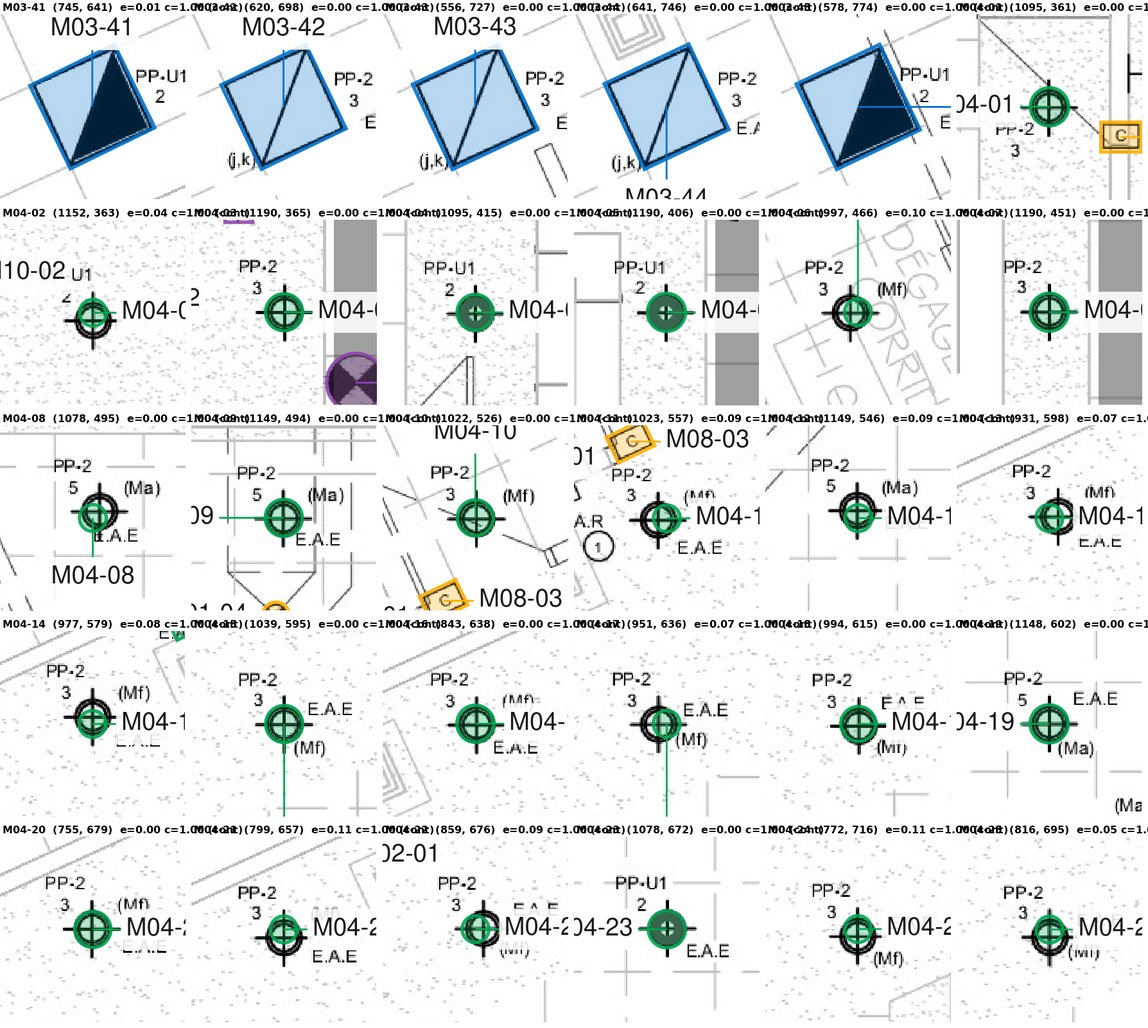
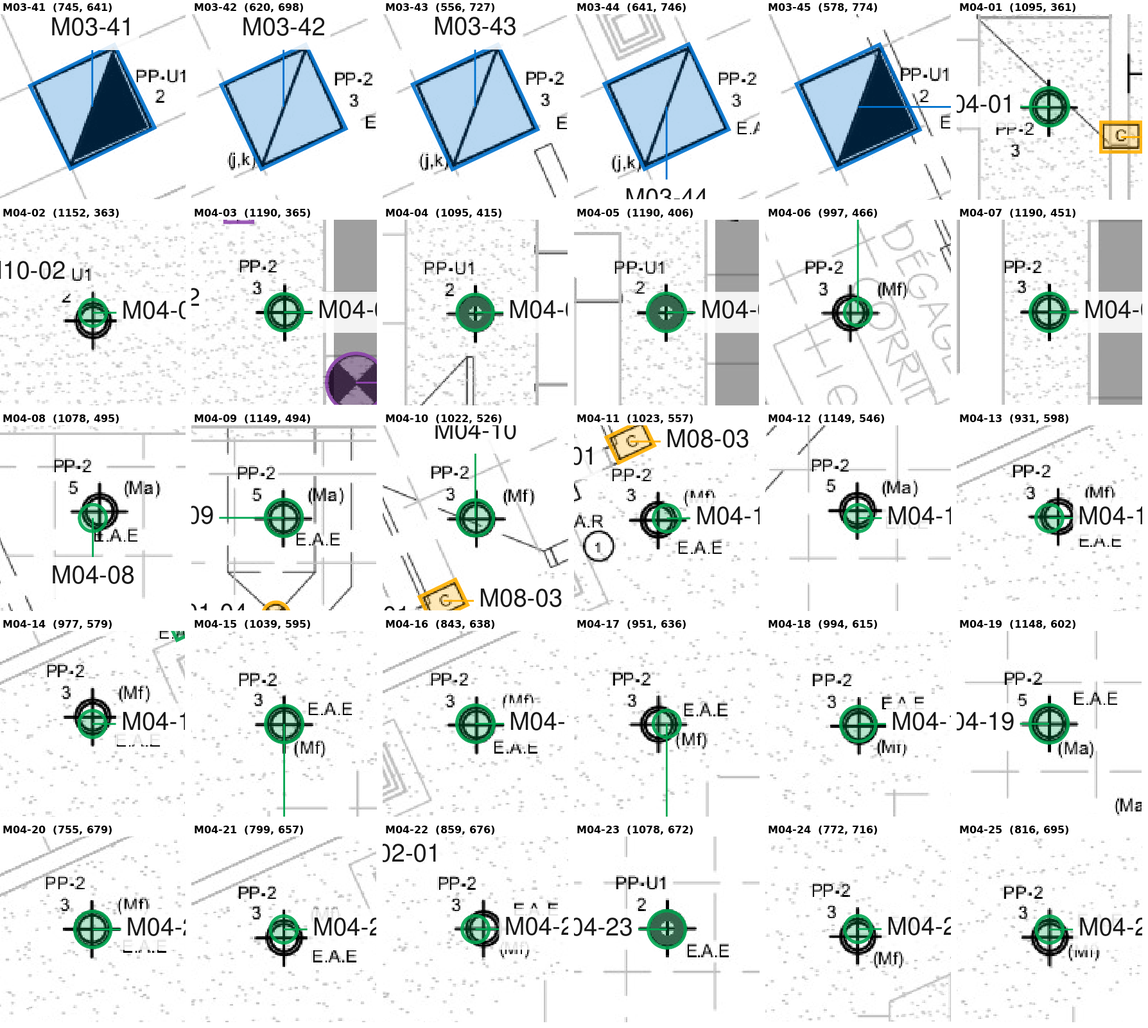
releve : revues Codex/Copilot PR #25 — calque par OCG, pages réelles, feuilles raster seules, échecs fatals
Codex (9) et Copilot (7), tous traités :
- calque_png.py : le calque est isolé par les flux de contenu balisés /OC vers les OCG « RELEVE … »
  (familles + légende), plus en effaçant les images — un plan VECTORIEL restait entier dans le
  « calque transparent ». Testé sur le gabarit vectoriel 2 feuilles (tests/test_calque_png.py).
- Pages : planche_controle.py --rapport et run.py lisent `plan_page` du rapport de rendu ; les
  `page` d'estimate.json (avant bordereaux) étaient fausses dès la 2e feuille.
- run.py : ancrage_raster.py --feuilles <feuilles raster> (dossier mixte : les feuilles vectorielles
  ne sont plus recalées sur leurs aperçus) ; planches + PNG dans `planches_et_png()`, échec FATAL ;
  copie Drive des dossiers png/ et controle/ ; « comparaison non exécutée » dans STATUT.md.
- ancrage_raster.py : schéma CSV conservé sans occurrence (fieldnames), --feuilles.
- comparer_legende.py : rapport explicite « non_executee » au lieu d'un fichier périmé ; échelle du
  gabarit = px/pt du PLAN / px/pt de la LÉGENDE (formats de feuille différents).
- planche_controle.py : mesure cherchée par (feuille, x, y), plus par coordonnées seules.
- dossiers/TEST-E201 : legende.csv A03 absent/0, A04 compte/5 (conforme=True) ; SHA256SUMS.txt
  limité aux fichiers versionnés (Dossier-complet.pdf est ignoré par .gitignore) ; R-015.
  Les rasters de planexpert/ restent hors dépôt par convention (.gitignore, comme tous les S-*).

pytest : 283 passed.
[…]

diff --git a/releve/run.py b/releve/run.py
@@ -232,6 +232,23 @@ def statut(name, inbox, outdir, workdir, steps, res, ok, err=None, a_verifier=No
             L += [f"## {extra}", "", open(p, encoding="utf-8").read(), ""]
     open(os.path.join(outdir, "STATUT.md"), "w", encoding="utf-8").write("\n".join(L))
 
+def planches_et_png(outdir, workdir, annote, estimate, rapport_path, steps, log_path):
+    """Planches de contrôle (vignettes ×8 avec mesures) + livrables PNG (annoté + calque) — un échec est FATAL :
+    sans planche, pas de contrôle visuel, donc jamais « TERMINÉ » (revues Codex/Copilot PR #25)."""
+    # Pages RÉELLES de chaque feuille dans « Plans annotés » (`plan_page` du rapport de rendu : les bordereaux insérés
+    # après chaque plan décalent tout dès la 2e feuille — les `page` d'estimate.json sont celles d'avant rendu).
+    pages = [(sh["sheet"], int(sh["plan_page"])) for sh in json.load(open(rapport_path, encoding="utf-8")).get("sheets", [])]
+    t = time.time(); code, out = run(["uv", "run", "releve/planche_controle.py", annote, estimate, os.path.join(outdir, "controle"),
+                                      "--mesures", os.path.join(workdir, "occurrences-visuel.csv"), "--rapport", rapport_path], log_path=log_path)
+    steps.append(("planche_controle", time.time() - t, (out.strip().splitlines() or ["?"])[-1][:160]))
+    if code: raise RuntimeError("planche_controle.py a échoué (planches de contrôle visuel obligatoires avant « fait »)")
+    # Livrables PNG (règle de Francis : plan annoté + calque transparent, pas de PDF à relire) : une paire par feuille plan
+    t = time.time()
+    for nom_f, pg in pages:
+        code, _ = run(["uv", "run", "releve/calque_png.py", annote, os.path.join(outdir, "png"), "--page", str(pg), "--nom", str(nom_f)], log_path=log_path)
+        if code: raise RuntimeError(f"calque_png.py a échoué sur la feuille {nom_f} (page {pg})")
+    steps.append(("calque_png", time.time() - t, f"{len(pages)} feuille(s) → png/"))
+
 def feuilles_raster(workdir):
     """Feuilles sans couche texte (scan, PNG) selon `feuilles.csv` de prepare.py : `nb_mots` = 0 ou classement `scan`."""
     p = os.path.join(workdir, "feuilles.csv")
@@ -258,7 +275,11 @@ def controles_raster(workdir, outdir):
     p = os.path.join(workdir, "comparaison-legende.json")
     if os.path.exists(p):
         c = json.load(open(p, encoding="utf-8"))
-        L.append(f"- comparaison à la légende : {c.get('occurrences', 0)} symboles comparés, {len(c.get('suspectes', []))} famille(s) suspecte(s)")
+        if c.get("non_executee"):
+            L.append(f"- comparaison à la légende : non exécutée — {c.get('raison', '')}")
+            c = {}
+        else:
+            L.append(f"- comparaison à la légende : {c.get('occurrences', 0)} symboles comparés, {len(c.get('suspectes', []))} famille(s) suspecte(s)")
         for s in c.get("suspectes", []):
             L.append(f"  - ⚠ {s['label']} ({s['x_pt']},{s['y_pt']}) ressemble plus à la ligne {s['meilleur']} « {s['description']} » "
                      f"({s['score_meilleur']}) qu'à la sienne {s['attendu']} ({s['score_attendu']}) — trancher au zoom, corriger TOUTES les occurrences semblables")
@@ -310,8 +331,11 @@ def process(arg, reprendre=False):
             # 2) comparer_legende.py corrèle chaque symbole aux glyphes de sa section de légende → une famille attribuée
             #    au mauvais glyphe (A03 avertisseur vs A04 détecteur de fumée) est signalée AVANT le rendu.
             # Jamais bloquants : les symboles non retrouvés et les familles suspectes vont dans STATUT.md, à vérifier au zoom.
-            if feuilles_raster(workdir):
-                t = time.time(); code, out = run(["uv", "run", "releve/ancrage_raster.py", workdir], log_path=log_path)
+            raster = feuilles_raster(workdir)
+            if raster:
+                # seulement les feuilles raster : dans un dossier mixte, les occurrences des feuilles vectorielles restent
+                # à l'ancrage vectoriel de render_vectoriel.py (revues Codex/Copilot PR #25)
+                t = time.time(); code, out = run(["uv", "run", "releve/ancrage_raster.py", workdir, "--feuilles", *raster], log_path=log_path)
                 steps.append(("ancrage_raster", time.time() - t, (out.strip().splitlines() or ["?"])[-1][:160]))
                 t = time.time(); code, out = run(["uv", "run", "releve/comparer_legende.py", workdir], log_path=log_path)
                 steps.append(("comparer_legende", time.time() - t, (out.strip().splitlines() or ["?"])[0][:160]))
@@ -333,20 +357,10 @@ def process(arg, reprendre=False):
         # Planche de contrôle : une vignette ×8 par pastille (CLAUDE.md §Autonomie point 1 — c'est à cette échelle
         # qu'un décalage de 5 pt ou une mauvaise famille se voit ; jamais sur la vue d'ensemble). À relire avant « fait ».
         annote = os.path.join(outdir, f"{name}-Plans-annotes.pdf"); estimate = os.path.join(outdir, "vecteur", "estimate.json")
-        if os.path.exists(annote) and os.path.exists(estimate):
-            t = time.time(); code, out = run(["uv", "run", "releve/planche_controle.py", annote, estimate, os.path.join(outdir, "controle"),
-                                              "--mesures", os.path.join(workdir, "occurrences-visuel.csv")], log_path=log_path)
-            steps.append(("planche_controle", time.time() - t, (out.strip().splitlines() or ["?"])[-1][:160]))
-            # Livrables PNG (règle de Francis : plan annoté + calque transparent, pas de PDF à relire) : une paire par feuille plan
-            try:
-                pages = [(sh.get("sheet") or sh.get("name"), sh.get("page") or 1) for sh in json.load(open(estimate, encoding="utf-8")).get("sheets", [])]
-            except Exception:  # noqa
-                pages = []
-            t = time.time(); n_png = 0
-            for nom_f, pg in pages:
-                code, _ = run(["uv", "run", "releve/calque_png.py", annote, os.path.join(outdir, "png"), "--page", str(pg), "--nom", str(nom_f)], log_path=log_path)
-                n_png += (code == 0)
-            steps.append(("calque_png", time.time() - t, f"{n_png} feuille(s) → png/"))
+        if os.path.exists(annote) and os.path.exists(estimate) and os.path.exists(rapport_path):
+            planches_et_png(outdir, workdir, annote, estimate, rapport_path, steps, log_path)
+        else:
+            steps.append(("planche_controle", 0, "non exécutée : Plans-annotes.pdf, vecteur/estimate.json ou le rapport de rendu manque"))
         ok = True
         # Boucle d'acceptation (critère d'acceptation, étapes 1 à 8) : lancée
         # seulement si le dossier de la soumission est déjà assemblé dans le
@@ -400,6 +414,9 @@ def process(arg, reprendre=False):
                 p = os.path.join(outdir, f)
                 if os.path.isfile(p): shutil.copy2(p, dst)
             if os.path.isdir(pe_dir): shutil.copytree(pe_dir, os.path.join(dst, os.path.basename(pe_dir)), dirs_exist_ok=True)
+            for sous in ("png", "controle"):                 # livrables PNG et planches de contrôle (revue Codex PR #25)
+                if os.path.isdir(os.path.join(outdir, sous)):
+                    shutil.copytree(os.path.join(outdir, sous), os.path.join(dst, sous), dirs_exist_ok=True)
             log(f"copié sur Drive : {dst}")
         except Exception as e:  # noqa
             log(f"copie Drive impossible : {e}")

diff --git a/releve/calque_png.py b/releve/calque_png.py
@@ -4,15 +4,42 @@
 # ///
 """Livrables PNG d'une feuille annotée (règle de Francis, 2026-10-15 : « on reste en PNG, laisse tomber le PDF ») :
 - `<feuille>_annote.png`   : la page « Plans annotés » rastérisée (plan + pastilles + étiquettes) ;
-- `<feuille>_calque.png`   : les pastilles SEULES sur fond transparent (RGBA) — l'image du plan est retirée de la
-  page avant le rendu, ce qui laisse exactement le calque vectoriel (overlay) à superposer sur le plan d'origine.
+- `<feuille>_calque.png`   : les pastilles SEULES sur fond transparent (RGBA) — le calque (overlay) à superposer
+  sur le plan d'origine.
 
-Usage : uv run releve/calque_png.py PLANS_ANNOTES.pdf SORTIE_DIR [--page 1] [--largeur 4967]
-(`--page` = numéro de page 1-based de la feuille ; la largeur par défaut est celle d'un A1 à 150 dpi.)
+Le calque est isolé par les CALQUES OCG du relevé, pas en effaçant des images : `render_vectoriel.py` dessine chaque
+famille dans un flux de contenu propre, balisé `/OC /MCn BDC … EMC` vers une OCG nommée « RELEVE … » (une par famille
++ `style.LEGEND_LAYER`). Ne sont gardés que les flux de contenu de la page qui référencent une de ces OCG ; le fond —
+image raster d'un scan OU traits/textes d'un plan vectoriel OU calques CAO d'origine — est retiré. (Revue Codex/Copilot
+PR #25 : supprimer les images laissait tout le plan vectoriel dans le calque.)
+
+Usage : uv run releve/calque_png.py PLANS_ANNOTES.pdf SORTIE_DIR [--page 1] [--largeur 4967] [--nom E201]
+(`--page` = numéro de page 1-based de la feuille DANS « Plans annotés » (`plan_page` du rapport de rendu, pas la page
+de `vecteur/plans.pdf`) ; la largeur par défaut est celle d'un A1 à 150 dpi.)
 """
 from __future__ import annotations
-import argparse, os
+import argparse, os, re, sys
 import pymupdf
+
+PREFIXE_CALQUE = "RELEVE"          # nom des OCG écrites par src/estimer/render (familles + légende)
+
+
+def flux_releve(doc: pymupdf.Document, page: pymupdf.Page) -> tuple[list[int], list[int]]:
+    """(xrefs de contenu à garder, xrefs retirés) : un flux est gardé s'il balise au moins un bloc /OC vers une OCG
+    « RELEVE … » de la page."""
+    noms = {x: v.get("name", "") for x, v in doc.get_ocgs().items()}
+    props = {}
+    ok, props_raw = doc.xref_get_key(page.xref, "Resources/Properties")
+    if ok == "dict":
+        for m in re.finditer(r"/(\w+)\s+(\d+)\s+0\s+R", props_raw):
+            props[m.group(1)] = int(m.group(2))
+    releve = {n for n, x in props.items() if noms.get(x, "").startswith(PREFIXE_CALQUE)}
+    garder, retirer = [], []
+    for x in page.get_contents():
+        c = doc.xref_stream(x).decode("latin-1", errors="replace")
+        refs = set(re.findall(r"/OC\s*/(\w+)\s+BDC", c))
+        (garder if refs & releve else retirer).append(x)
+    return garder, retirer
 
 
 def main():
@@ -21,14 +48,21 @@ def main():
     ap.add_argument("--largeur", type=int, default=4967); ap.add_argument("--nom", default=None)
     a = ap.parse_args()
     os.makedirs(a.sortie, exist_ok=True)
-    doc = pymupdf.open(a.pdf); page = doc[a.page - 1]
+    doc = pymupdf.open(a.pdf)
+    if not 1 <= a.page <= doc.page_count:
+        sys.exit(f"page {a.page} hors du PDF ({doc.page_count} pages)")
+    page = doc[a.page - 1]
     z = a.largeur / page.rect.width
     nom = a.nom or f"p{a.page:02d}"
     page.get_pixmap(matrix=pymupdf.Matrix(z, z)).save(os.path.join(a.sortie, f"{nom}_annote.png"))
-    for img in page.get_images(full=True):          # retire le plan raster : il ne reste que le calque vectoriel
-        page.delete_image(img[0])
+    garder, retirer = flux_releve(doc, page)
+    if not garder:
+        sys.exit(f"aucun flux de contenu « {PREFIXE_CALQUE} » sur la page {a.page} : pas un PDF de render_vectoriel.py ?")
+    doc.xref_set_key(page.xref, "Contents", "[ " + " ".join(f"{x} 0 R" for x in garder) + " ]")
+    page = doc.reload_page(page)
     page.get_pixmap(matrix=pymupdf.Matrix(z, z), alpha=True).save(os.path.join(a.sortie, f"{nom}_calque.png"))
-    print(f"{nom}_annote.png + {nom}_calque.png ({a.largeur} px de large) → {a.sortie}")
+    print(f"{nom}_annote.png + {nom}_calque.png ({a.largeur} px de large ; calque = {len(garder)} flux RELEVE gardés, "
+          f"{len(retirer)} flux de fond retirés) → {a.sortie}")
 
 
 if __name__ == "__main__":

diff --git a/releve/planche_controle.py b/releve/planche_controle.py
@@ -12,6 +12,7 @@ et, avec --avant ANCIEN.pdf, des paires avant/après pour montrer ce qui a chang
 
 Usage : uv run releve/planche_controle.py PLANS_ANNOTES.pdf ESTIMATE_JSON SORTIE [--avant ANCIEN.pdf] [--taille 36]
         [--mesures travail/occurrences-visuel.csv]   (écart contour→encre en pt et couverture, mesurés par ancrage_raster.py)
+        [--rapport <NOM>-rendu-rapport.json]          (page réelle de chaque feuille dans « Plans annotés » — obligatoire dès 2 feuilles)
 (ESTIMATE_JSON = vecteur/estimate.json écrit par render_vectoriel.py : repère + x, y de chaque pastille.)
 """
 from __future__ import annotations
@@ -47,15 +48,16 @@ def main():
     ap.add_argument("pdf"); ap.add_argument("estimate"); ap.add_argument("sortie")
     ap.add_argument("--avant", default=None); ap.add_argument("--taille", type=float, default=36.0); ap.add_argument("--zoom", type=float, default=8.0)
     ap.add_argument("--mesures", default=None, help="occurrences-visuel.csv d'ancrage_raster.py : écart/couverture dans la légende de chaque vignette")
+    ap.add_argument("--rapport", default=None, help="<NOM>-rendu-rapport.json de render_vectoriel.py : page RÉELLE de chaque feuille dans « Plans annotés » (plan_page)")
     a = ap.parse_args()
     mesures = []
     if a.mesures:
         import csv
         mesures = [r for r in csv.DictReader(open(a.mesures, encoding="utf-8")) if (r.get("ecart_pt") or "").strip()]
 
-    def mesure(x, y):
+    def mesure(feuille, x, y):
         for r in mesures:
-            if abs(float(r["x_pt"]) - x) < 0.6 and abs(float(r["y_pt"]) - y) < 0.6:
+            if r.get("feuille") == feuille and abs(float(r["x_pt"]) - x) < 0.6 and abs(float(r["y_pt"]) - y) < 0.6:
                 return f"  e={r['ecart_pt']} c={r['couverture']} ({r.get('mesure', '')[:4]})"
         return ""
     os.makedirs(a.sortie, exist_ok=True)
@@ -68,12 +70,22 @@ def main():
     par_feuille = {}
     for it in items:
         par_feuille.setdefault(it.get("sheet", ""), []).append(it)
+    # Page de chaque feuille DANS « Plans annotés » : `plan_page` du rapport de rendu. Les `page` d'estimate.json sont
+    # celles de vecteur/plans.pdf, AVANT insertion des bordereaux — fausses dès la 2e feuille (revues Codex/Copilot PR #25).
     sheets_pages = {}
-    for sh in json.load(open(a.estimate, encoding="utf-8")).get("sheets", []):
-        sheets_pages[sh.get("sheet") or sh.get("name")] = sh.get("page") or sh.get("plan_page") or 1
+    if a.rapport:
+        for sh in json.load(open(a.rapport, encoding="utf-8")).get("sheets", []):
+            sheets_pages[sh["sheet"]] = int(sh["plan_page"])
+    else:
+        for sh in json.load(open(a.estimate, encoding="utf-8")).get("sheets", []):
+            sheets_pages[sh.get("sheet") or sh.get("name")] = int(sh.get("plan_page") or sh.get("page") or 1)
+        if len(sheets_pages) > 1:
+            print("ATTENTION : plusieurs feuilles sans --rapport : les pages viennent d'estimate.json (avant bordereaux) et peuvent être fausses")
     n_planches = 0
     for feuille, lst in par_feuille.items():
-        pg = int(lst[0].get("page") or sheets_pages.get(feuille, 1) or 1)   # page de la feuille dans « Plans annotés »
+        pg = sheets_pages.get(feuille) or int(lst[0].get("page") or 1)      # page de la feuille dans « Plans annotés »
+        if not 1 <= pg <= doc.page_count:
+            raise SystemExit(f"feuille {feuille} : page {pg} hors du PDF ({doc.page_count} pages)")
         page = doc[pg - 1]
         page_av = avant[pg - 1] if avant else None
         lst.sort(key=lambda o: o["repere"])
@@ -95,7 +107,7 @@ def main():
                     d.rectangle([cx + tw + 8, cy + 22, cx + tw + 8 + tw - 1, cy + 22 + tw - 1], outline=(0, 150, 0), width=2)
                 else:
                     img.paste(v, (cx, cy + 22))
-                d.text((cx + 4, cy + 2), f"{it['repere']}  ({it['x']:.0f}, {it['y']:.0f}){mesure(it['x'], it['y'])}", fill="black", font=font)
+                d.text((cx + 4, cy + 2), f"{it['repere']}  ({it['x']:.0f}, {it['y']:.0f}){mesure(feuille, it['x'], it['y'])}", fill="black", font=font)
             out = os.path.join(a.sortie, f"{feuille}-planche-{k // par + 1:02d}.png"); img.save(out); n_planches += 1
     print(f"{len(items)} vignettes sur {n_planches} planche(s) → {a.sortie}")
 

diff --git a/releve/comparer_legende.py b/releve/comparer_legende.py
@@ -40,7 +40,11 @@ def main():
     work = os.path.abspath(sys.argv[1])
     leg = [r for r in csv.DictReader(open(os.path.join(work, "legende.csv"), encoding="utf-8"))
            if (r.get("x_pt") or "").strip() and (r.get("y_pt") or "").strip()]
+    sortie = os.path.join(work, "comparaison-legende.json")
     if not leg:
+        # rapport explicite (jamais un fichier périmé d'un passage précédent repris dans STATUT.md — revue Codex PR #25)
+        json.dump({"non_executee": True, "raison": "aucune ligne de legende.csv n'a de coordonnées (feuille_legende,x_pt,y_pt,taille_pt)",
+                   "occurrences": 0, "suspectes": [], "par_famille": {}, "sans_taille": 0}, open(sortie, "w", encoding="utf-8"), indent=1, ensure_ascii=False)
         print("comparaison légende : aucune ligne de legende.csv n'a de coordonnées (feuille_legende,x_pt,y_pt,taille_pt) — rien à comparer")
         return
     nom = {r["label"]: r for r in csv.DictReader(open(os.path.join(work, "nomenclature.csv"), encoding="utf-8"))}
@@ -53,7 +57,7 @@ def main():
             cache[f] = raster(work, f)
         img, s = cache[f]
         half = float(r.get("taille_pt") or 8) / 2 + 1.0
-        glyphes[r["no"]] = (r.get("section", ""), r["description"], crop(img, s, float(r["x_pt"]), float(r["y_pt"]), half), half)
+        glyphes[r["no"]] = (r.get("section", ""), r["description"], crop(img, s, float(r["x_pt"]), float(r["y_pt"]), half), half, s)
     rapport = {"occurrences": 0, "suspectes": [], "par_famille": {}, "sans_taille": 0}
     # Échelle par GÉOMÉTRIE, pas par corrélation (qui favorise toujours le gabarit le plus petit) : la taille du symbole
     # sur le plan vient de l'ancrage (`rayon_pt` → diamètre, ou boîte x0..y1) ; chaque glyphe de légende — l'attendu
@@ -88,10 +92,12 @@ def main():
         section = glyphes[no][0]
         fen = crop(img, s, float(o["x_pt"]), float(o["y_pt"]), t / 2 + 6)
         scores = {}
-        for n2, (sec2, _, g2, half2) in glyphes.items():
+        for n2, (sec2, _, g2, half2, s_leg) in glyphes.items():
             if sec2 != section:
                 continue
-            e = (t + 2.0) / (2 * half2)           # glyphe (côté 2*half2 pt, marge comprise) → taille mesurée + trait
+            # glyphe (côté 2*half2 pt, en px de la LÉGENDE) → (t + 2) pt en px du PLAN : les deux feuilles peuvent avoir
+            # des formats, donc des px/pt, différents (revue Copilot PR #25)
+            e = (t + 2.0) * s / (2 * half2 * s_leg)
             gg = cv2.resize(g2, None, fx=e, fy=e, interpolation=cv2.INTER_AREA if e < 1 else cv2.INTER_CUBIC)
             if gg.shape[0] >= fen.shape[0] or gg.shape[1] >= fen.shape[1] or min(gg.shape) < 4:
                 continue
@@ -111,7 +117,7 @@ def main():
                                          "meilleur": meilleur, "description": glyphes[meilleur][1], "score_meilleur": round(scores[meilleur], 3)})
     for fam in rapport["par_famille"].values():
         fam["score_moyen"] = round(fam["score_moyen"] / max(1, fam["n"]), 3)
-    json.dump(rapport, open(os.path.join(work, "comparaison-legende.json"), "w", encoding="utf-8"), indent=1, ensure_ascii=False)
+    json.dump(rapport, open(sortie, "w", encoding="utf-8"), indent=1, ensure_ascii=False)
     nr = {k: v["non_reconnues"] for k, v in rapport["par_famille"].items() if v.get("non_reconnues")}
     print(f"comparaison légende : {rapport['occurrences']} occurrences comparées, {len(rapport['suspectes'])} suspecte(s), "
           f"glyphe non reconnu : {nr or 'aucun'} → comparaison-legende.json")

diff --git a/tests/test_calque_png.py b/tests/test_calque_png.py
@@ -1,0 +1,64 @@
+"""Revues Codex/Copilot PR #25 : le calque PNG doit isoler les calques OCG « RELEVE » — supprimer les images laissait
+tout un plan VECTORIEL (traits, textes, calques CAO) dans le calque « transparent » ; et la page de chaque feuille dans
+« Plans annotés » est `plan_page` du rapport de rendu, pas la page d'avant insertion des bordereaux."""
+from __future__ import annotations
+import json, subprocess, sys
+from pathlib import Path
+
+import numpy as np
+import pymupdf
+from PIL import Image
+
+sys.path.insert(0, str(Path(__file__).parent))
+from test_from_releve import make_workdir  # noqa: E402
+from src.estimer.render.from_releve import build  # noqa: E402
+from src.estimer.render import load_input, render  # noqa: E402
+
+REPO = Path(__file__).resolve().parents[1]
+
+
+def _rendu(tmp_path):
+    work = make_workdir(tmp_path)
+    out = tmp_path / "out"
+    build(work, out)
+    pdf = tmp_path / "rendu.pdf"
+    rep = render(load_input(out), out / "plans.pdf", pdf)
+    (tmp_path / "rendu-rapport.json").write_text(json.dumps(rep), encoding="utf-8")
+    return work, out, pdf, rep
+
+
+def test_calque_vectoriel_sans_fond(tmp_path):
+    work, out, pdf, rep = _rendu(tmp_path)
+    assert [s["plan_page"] for s in rep["sheets"]] == [1, 4]       # bordereaux insérés après la 1re feuille
+    for sh in rep["sheets"]:
+        r = subprocess.run([sys.executable, str(REPO / "releve" / "calque_png.py"), str(pdf), str(tmp_path / "png"),
+                            "--page", str(sh["plan_page"]), "--nom", sh["sheet"], "--largeur", "800"],
+                           capture_output=True, text=True, cwd=REPO)
+        assert r.returncode == 0, r.stderr
+        calque = np.array(Image.open(tmp_path / "png" / f"{sh['sheet']}_calque.png"))
+        annote = np.array(Image.open(tmp_path / "png" / f"{sh['sheet']}_annote.png"))
+        assert calque.shape[2] == 4 and annote.shape[2] == 3
+        # le fond vectoriel (titre + trait du gabarit) est parti : le calque est très majoritairement transparent,
+        # mais pas vide (pastilles + encadré RELEVE)
+        opaque = (calque[..., 3] > 0).mean()
+        assert 0.01 < opaque < 0.5, opaque
+    # le PDF source est intact (le script modifie sa copie en mémoire seulement)
+    doc = pymupdf.open(pdf)
+    assert "DSI01" in doc[0].get_text()
+
+
+def test_calque_refuse_un_pdf_sans_calque_releve(tmp_path):
+    work, out, pdf, rep = _rendu(tmp_path)
+    r = subprocess.run([sys.executable, str(REPO / "releve" / "calque_png.py"), str(out / "plans.pdf"), str(tmp_path / "png"),
+                        "--page", "1", "--largeur", "400"], capture_output=True, text=True, cwd=REPO)   # plan d'avant rendu : aucune OCG
+    assert r.returncode != 0 and "RELEVE" in (r.stderr + r.stdout)
+
+
+def test_planche_controle_lit_plan_page_du_rapport(tmp_path):
+    work, out, pdf, rep = _rendu(tmp_path)
+    r = subprocess.run([sys.executable, str(REPO / "releve" / "planche_controle.py"), str(pdf), str(out / "estimate.json"),
+                        str(tmp_path / "controle"), "--rapport", str(tmp_path / "rendu-rapport.json"), "--zoom", "2"],
+                       capture_output=True, text=True, cwd=REPO)
+    assert r.returncode == 0, r.stderr
+    planches = sorted(p.name for p in (tmp_path / "controle").glob("*.png"))
+    assert planches == ["DSI01-planche-01.png", "E01-planche-01.png"]

diff --git a/releve/ancrage_raster.py b/releve/ancrage_raster.py
@@ -16,7 +16,9 @@ Un symbole non retrouvé garde ses coordonnées d'origine et est listé dans `an
 Le rendu (`render_vectoriel.py` → `from_releve`) lit ces colonnes : `rayon_pt` (rayon de la pastille, plancher
 `style.MARK_RADIUS_MIN`), `x0_pt..y1_pt` + `angle_deg` (boîte tournée).
 
-Usage : uv run releve/ancrage_raster.py WORKDIR [--feuille F] [--max-deplacement 8]
+Usage : uv run releve/ancrage_raster.py WORKDIR [--feuilles F1 F2 …] [--max-deplacement 8]
+(`--feuilles` : seulement les feuilles raster — dans un dossier mixte, les occurrences des feuilles vectorielles ne
+sont pas touchées ; sans option, toutes les feuilles.)
 Idempotent : relancer ne bouge plus rien (le symbole est déjà sous la pastille).
 """
 from __future__ import annotations
@@ -357,13 +359,18 @@ def poser_boite(r, dist, s, res):
 
 def main():
     ap = argparse.ArgumentParser()
-    ap.add_argument("workdir"); ap.add_argument("--feuille", default=None); ap.add_argument("--max-deplacement", type=float, default=8.0)
+    ap.add_argument("workdir"); ap.add_argument("--feuille", default=None, help="une seule feuille")
+    ap.add_argument("--feuilles", nargs="+", default=None, help="feuilles RASTER à traiter (run.py : `feuilles_raster()`) — les autres lignes sont laissées intactes")
+    ap.add_argument("--max-deplacement", type=float, default=8.0)
     a = ap.parse_args()
     work = os.path.abspath(a.workdir)
     nom = load_nomenclature(work)
     path = os.path.join(work, "occurrences-visuel.csv")
-    rows = list(csv.DictReader(open(path, encoding="utf-8")))
-    cols = list(rows[0].keys()) if rows else []
+    with open(path, encoding="utf-8") as fh:
+        lecteur = csv.DictReader(fh)
+        rows = list(lecteur)
+        cols = list(lecteur.fieldnames or [])        # schéma conservé même sans occurrence (revue Codex PR #25)
+    feuilles = set(a.feuilles or ([a.feuille] if a.feuille else []))
     for k in ("x0_pt", "y0_pt", "x1_pt", "y1_pt", "angle_deg", "rayon_pt", "x_agent_pt", "y_agent_pt", "ecart_pt", "couverture", "mesure"):
         if k not in cols:
             cols.append(k)
@@ -395,8 +402,8 @@ def main():
     dists, dists_gris = {}, {}
     for r in rows:
         f = r.get("feuille", "")
-        if a.feuille and f != a.feuille:
-            continue
+        if feuilles and f not in feuilles:
+            continue                                     # feuille vectorielle : ancrage.py (vectoriel) s'en charge, pas ici
         if f not in cache:
             cache[f] = _raster(work, f)
         img, s = cache[f]

diff --git a/dossiers/TEST-E201/reserves.md b/dossiers/TEST-E201/reserves.md
@@ -99,3 +99,8 @@ idempotent (`x_agent_pt`/`y_agent_pt` = point de départ, toujours celui de l'ag
 Contre-vérification Haiku à l'aveugle sur le résultat final : 113/121 ; les 8 signalés vérifiés au raster brut :
 6 faux positifs (I02-01/02 = cercle avec carré A09 ; M03-11 vraiment à 0° ; M05-01/02 cercles gris pâles, e ≤ 0,11 ;
 M11-02 cercle X mi-noir, e 0,02), 2 rails M06 posés sur la ligne par conception (R-008).
+
+## R-015 — Revues Codex / Copilot de la PR #25 (2026-10-15)
+- `legende.csv` : A03 passé à `absent,0` et A04 à `compte,5` (le fichier commis gardait l'ancien classement ; `controle_qualite.py` conforme=True après correction).
+- `comparer_legende.py` signale la station manuelle (387,4 ; 849,3) « plus proche de A06 piezo que de A01 » : A06 = le glyphe A01 + rayons, les deux corrèlent ; vérifié au zoom ×8 (planche 1, I05-03) : carré « F » sans rayons → A01 confirmé, pas de changement.
+- `planexpert/` ne contient pas les rasters `E201plan-p01.png` / `E001legend-p01.png` : convention du dépôt (`.gitignore` : `dossiers/*/planexpert/*.png`, comme tous les dossiers S-*) ; le paquet complet est dans `OUTBOX/TEST-E201/TEST-E201-planexpert/` (et le miroir Drive). `Dossier-complet.pdf` (ignoré aussi) retiré de `SHA256SUMS.txt`.
